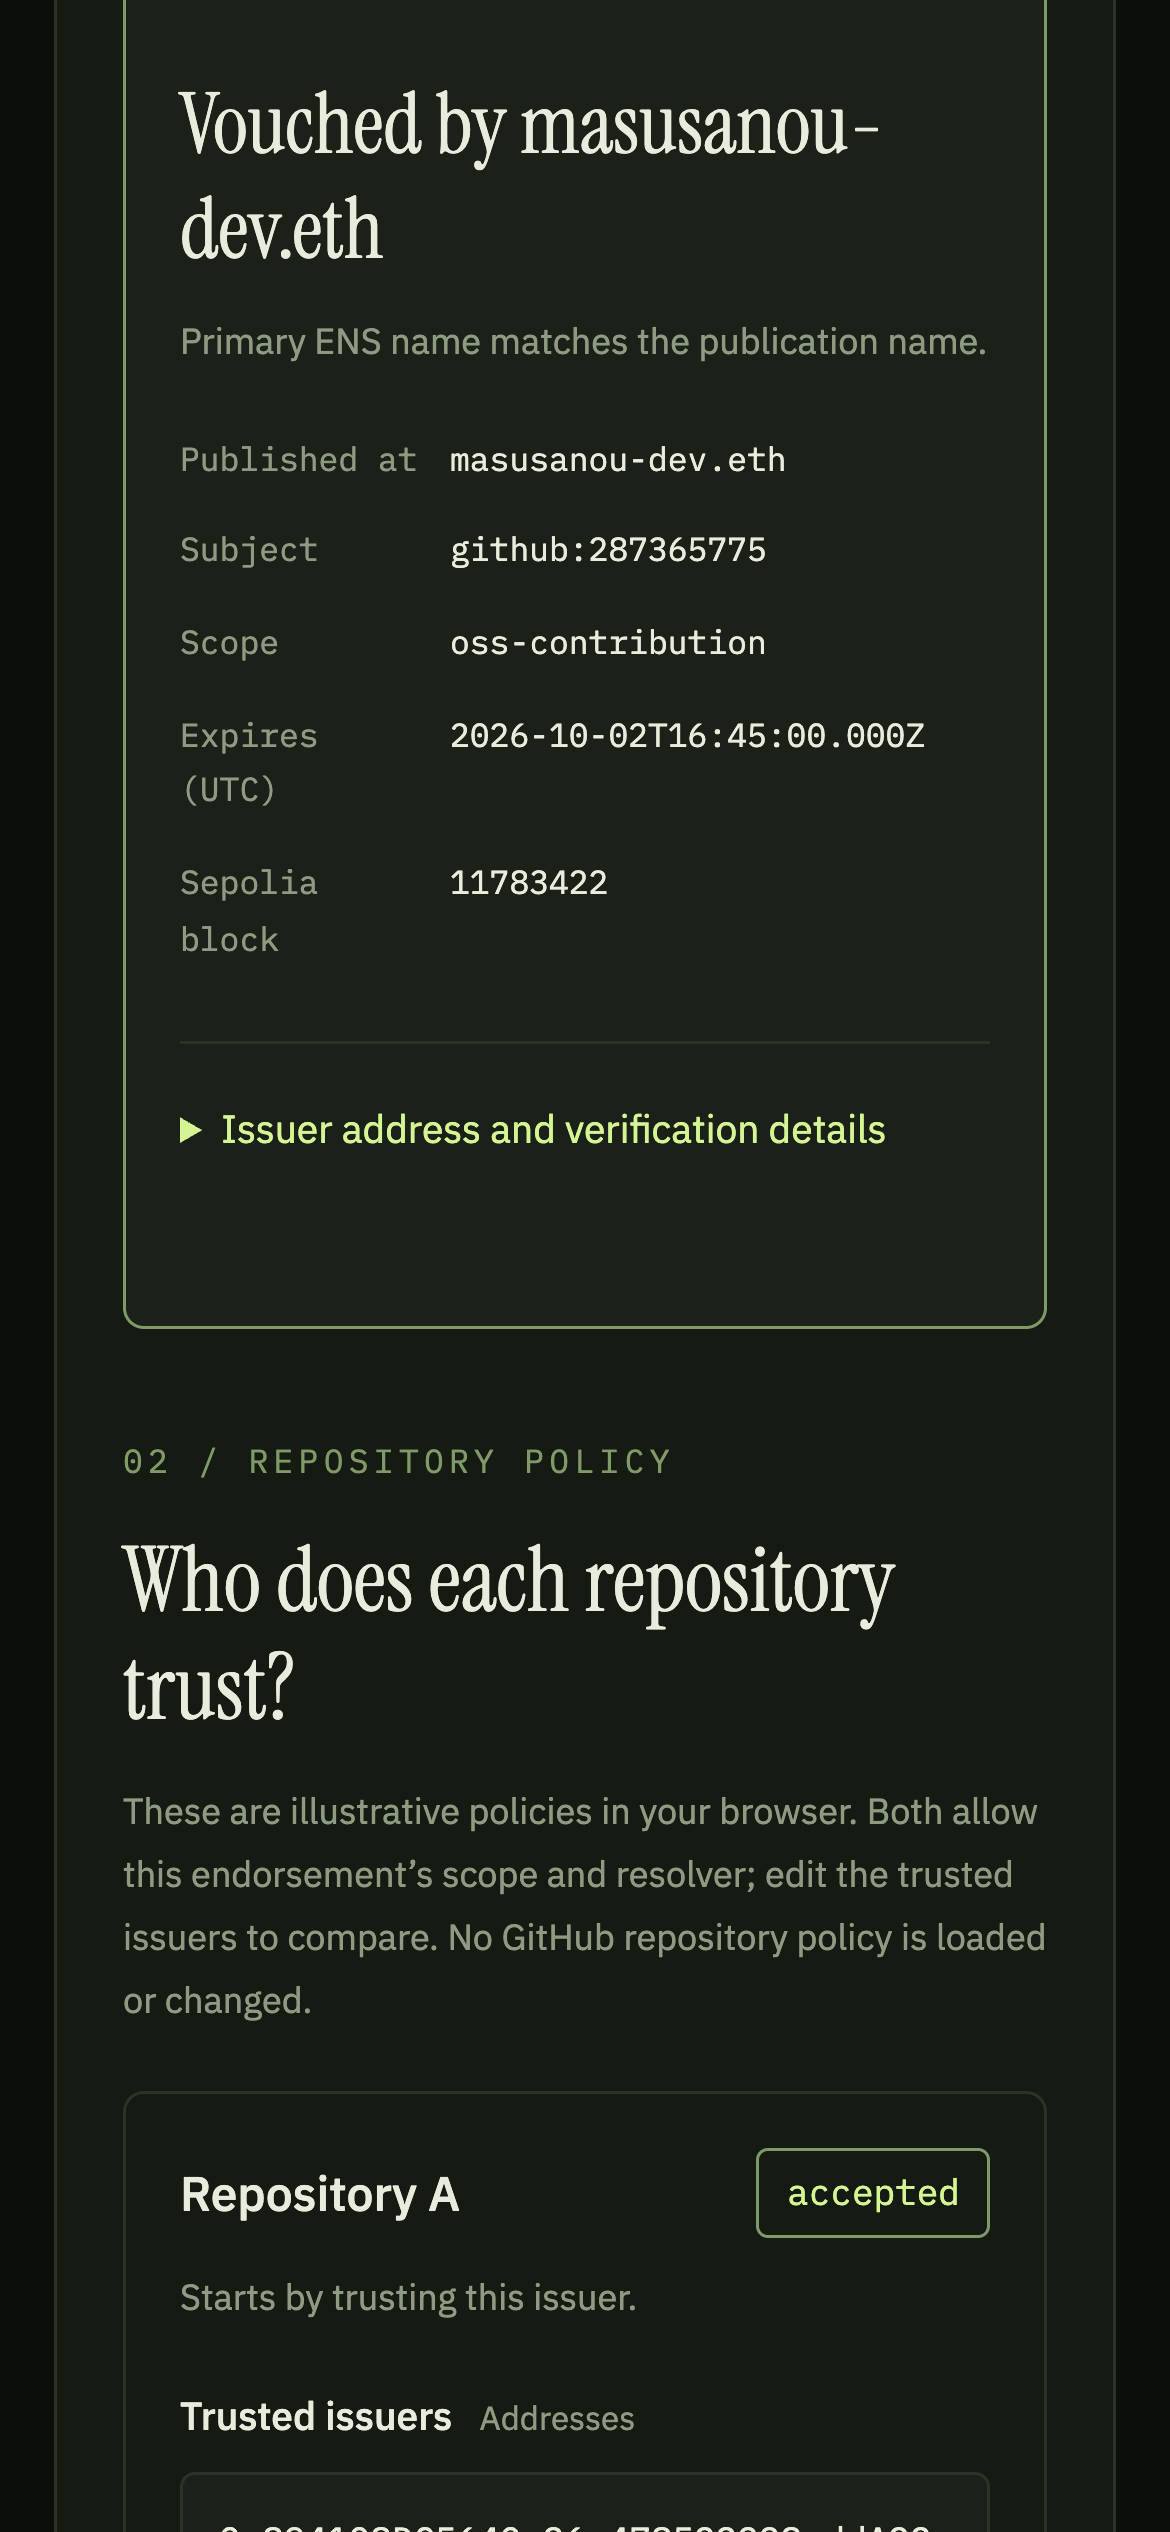
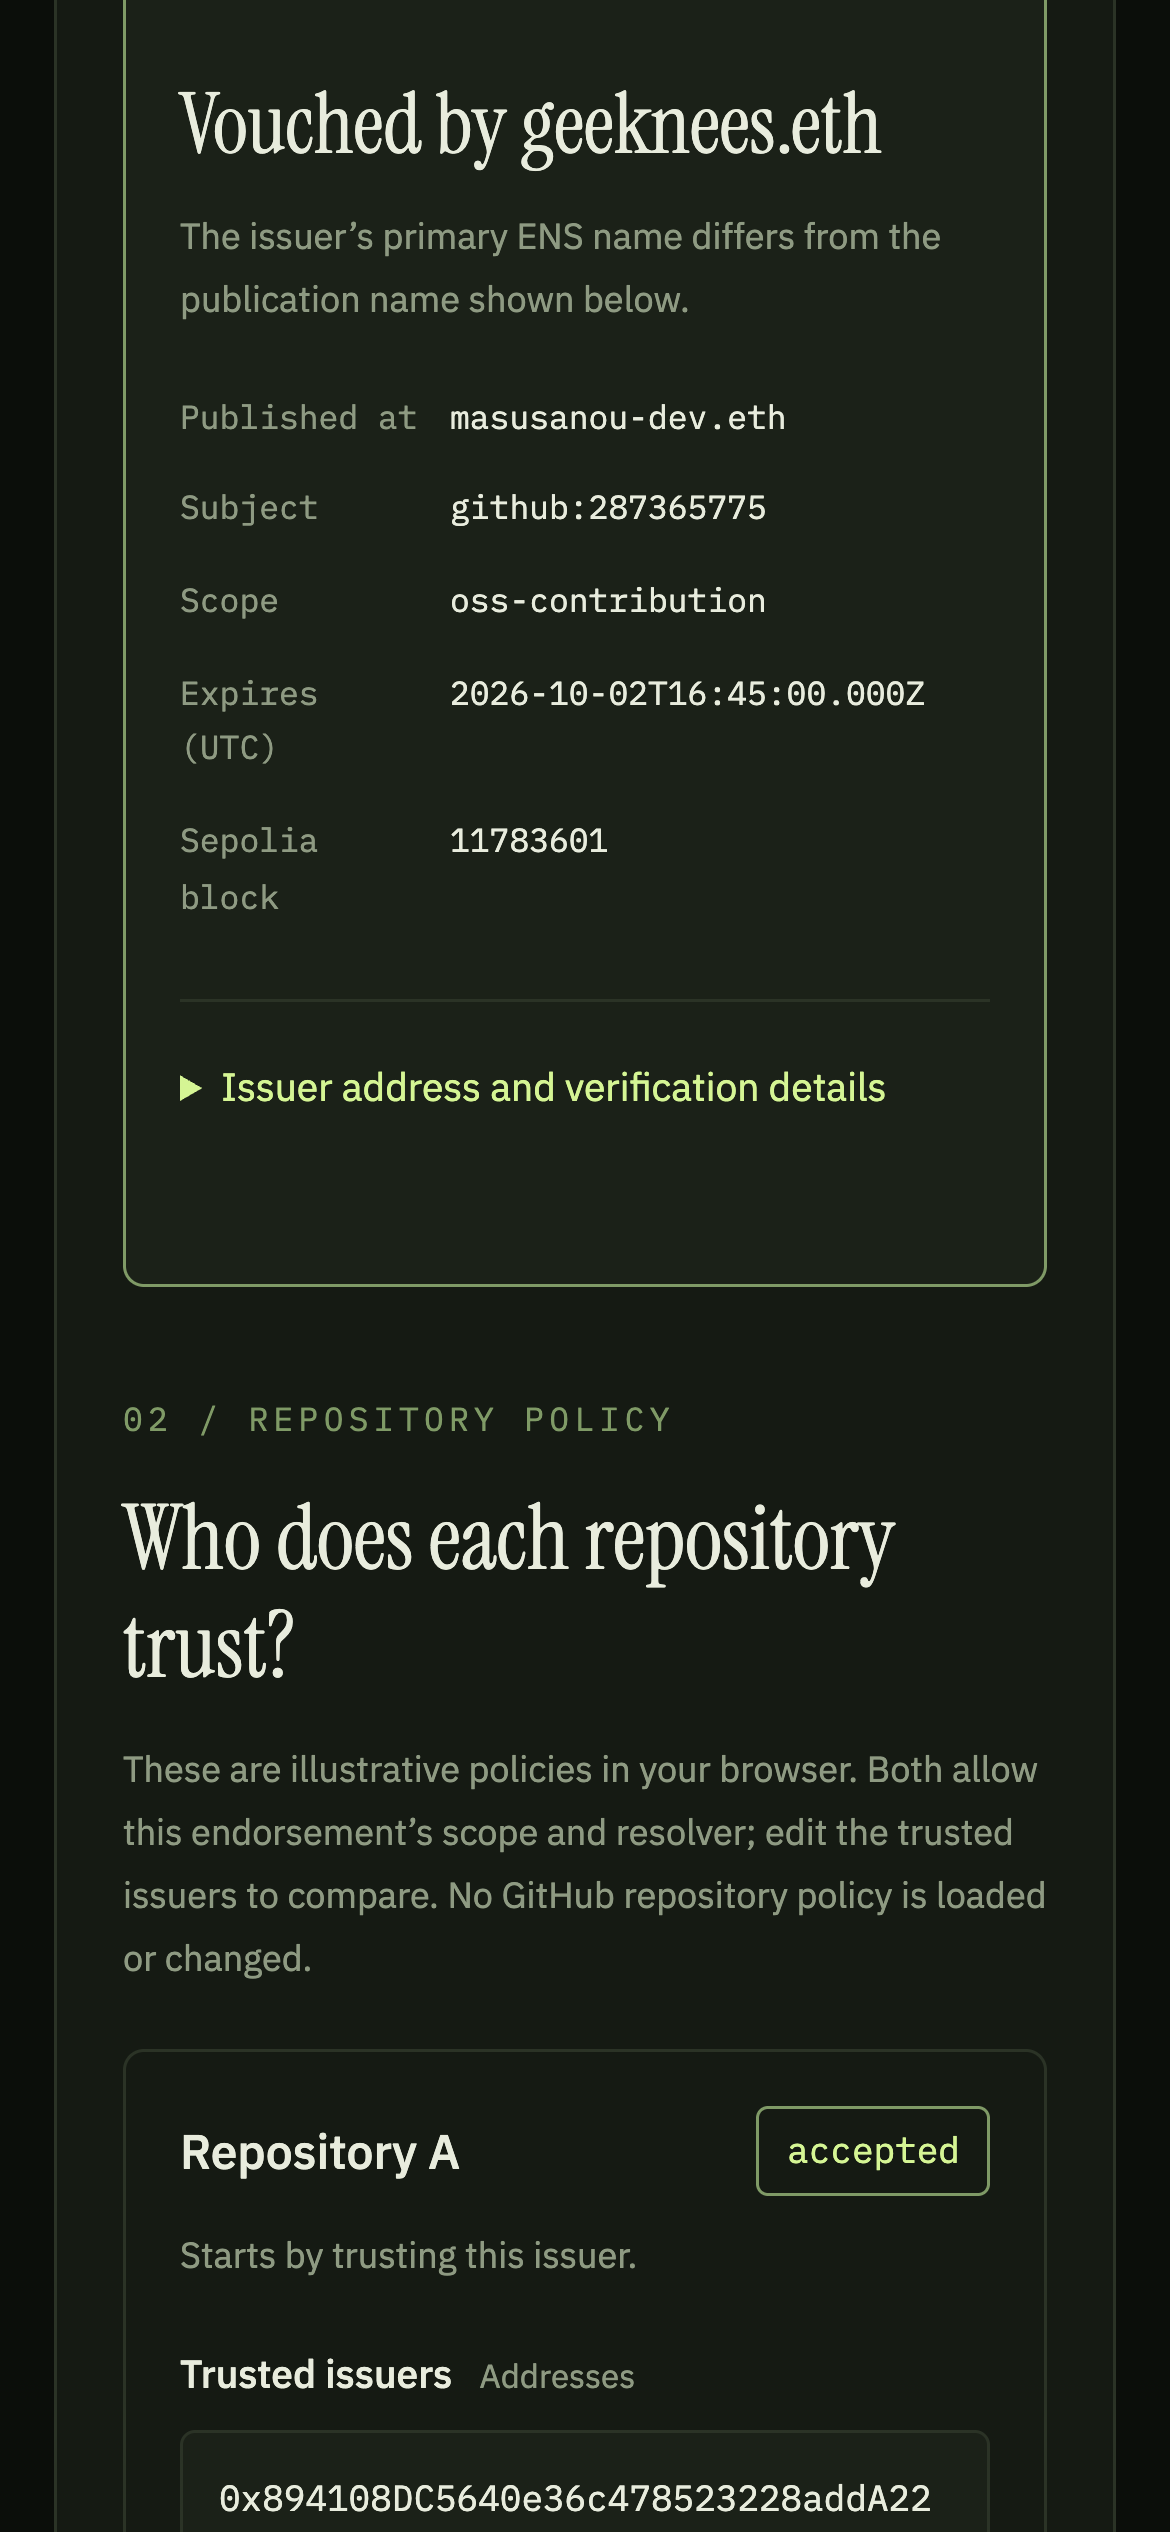
docs: show the issuer's primary name on the verification screenshots
The issuer wallet's primary ENS name is now geeknees.eth, so the page
reads "Vouched by geeknees.eth" with masusanou-dev.eth as the
publication name. Recapture both verification screenshots and update
the booth script and asset notes to match.

diff --git a/docs/submission-assets/README.md b/docs/submission-assets/README.md
@@ -2,7 +2,7 @@
 
 - `logo.png`: 512 × 512。縦線の先が二つに分かれた小文字 d。右の枝だけマゼンタ。元データは [SVG](../../assets/devouch-logo.svg)。
 - `cover.png`: 1280 × 720、16:9。推薦の流れ。元データは [SVG](../../assets/devouch-cover.svg)。
-- `verify.png`、`verify-mobile.png`: 公開中の検証ページ（https://geeknees.github.io/devouch/?name=masusanou-dev.eth#verify）を撮影。Sepolia の実際の推薦を読み、Vouched by masusanou-dev.eth、repo A は accepted、repo B は rejected と表示された状態（2026-09-26、block 11783017）。
+- `verify.png`、`verify-mobile.png`: 公開中の検証ページ（https://geeknees.github.io/devouch/?name=masusanou-dev.eth#verify）を撮影。Sepolia の実際の推薦を読み、Vouched by geeknees.eth（推薦者の primary name）、公開先 masusanou-dev.eth、repo A は accepted、repo B は rejected と表示された状態（2026-09-26 12:40 JST 頃、block 11783599）。
 - `workspace.png`、`ens-setup.png`、`withdraw.png`: 実際の静的アプリをChromeで撮影した操作画面。
 
 workspace・ENS setup・Withdraw の画面はウォレット未接続で撮影したUIの紹介で、Sepoliaで取引が成功した証拠ではない。検証ページの2枚は、公開中の推薦を読んだ実際の結果。

diff --git a/docs/presentation/booth-script.md b/docs/presentation/booth-script.md
@@ -61,7 +61,7 @@ Then let the captions speak. If the judge looks at you, read the caption aloud o
 
 > Please scan this. / **Try it yourself.**
 > No wallet. / This one is **live on Sepolia.**
-> It says / "Vouched by masusanou-dev.eth."
+> It says / "Vouched by **geeknees.eth**" / — that's me.
 > Add me to repo B, / and it changes / to **accepted.**
 
 ### 4. Close (10s)
@@ -139,7 +139,7 @@ Then let the captions speak. If the judge looks at you, read the caption aloud o
 
 > これを読み取って、ご自身で試してみてください。
 > ウォレットは要りません。こちらは Sepolia の本物のデータです。
-> 「Vouched by masusanou-dev.eth」と出ます。
+> 「Vouched by geeknees.eth」と出ます。推薦したのは私です。
 > repo B に私を追加すると、accepted に変わります。
 
 ### 4. まとめ（10秒）
